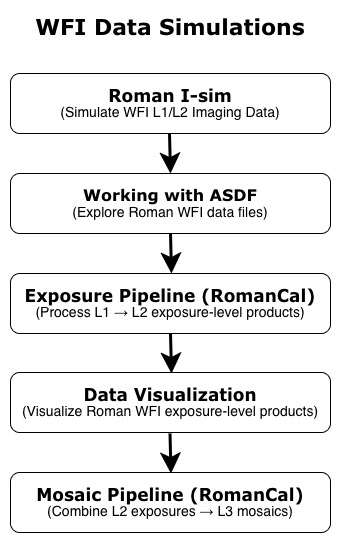
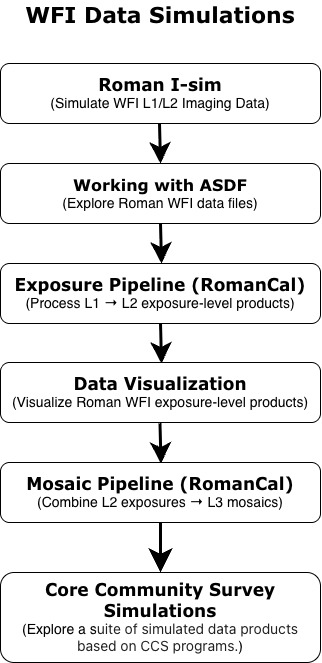
Updated Markdown files
Updated markdown for simulations and crds workflow. 

The simulations workflow now includes the CCS notebook. We also broke the notebooks for the data visualization in two notebooks

The CRDS workflow corrects some typos.

This PR also includes updated diagram for the simulations workflow and a new diagram for the CRDS reference files workflow.

Pull request: Updated markdown for simulations and crds workflow
Updated markdown files for the WFI Data Simulations to:

1.  add the  new CCS notebook.
2. modified the diagram.
3. divide the data visualization section in two notebooks

Updated the CRDS markdown workflow to fix some text and to add a diagram

Changed region(s): [[0.0, 0.0, 1.0, 1.0]]

diff --git a/markdown/workflows/crds-reference-files.md b/markdown/workflows/crds-reference-files.md
@@ -29,11 +29,11 @@ Explore each major reference file type in detail:
 | Reference File | Purpose | Key Concepts Covered | Notebook |
 |----------------|---------|----------------------|----------|
 | **MASK** (Bad Pixel Mask) | DQ flags and bad pixel identification | `dq` array, bitwise flags, flagged pixel statistics | [bad_pixels_mask_reffile.ipynb](../../notebooks/crds_reference_files/bad_pixels_mask_reffile.ipynb) |
-| **DARK** | Dark current correction | Data cubes, `dark_slope`, DQ handling, contrast stretching | [dark_reffile.ipynb](../../notebooks/crds_reference_files/dark_reffile.ipynb) |
-| **SATURATION** | Saturation thresholds | Per-pixel or per-amplifier thresholds, flag handling | [saturation_reffile.ipynb](../../notebooks/crds_reference_files/saturation_reffile.ipynb) |
+| **DARK** | Dark current correction | Pixel-by-pixel and frame-by-frame dark current values per detector readout mode | [dark_reffile.ipynb](../../notebooks/crds_reference_files/dark_reffile.ipynb) |
+| **SATURATION** | Saturation thresholds | Per-pixel thresholds, flag handling | [saturation_reffile.ipynb](../../notebooks/crds_reference_files/saturation_reffile.ipynb) |
 | **REFPIX** | Reference pixel correction | Frequency-dependent coefficients (`alpha`, `gamma`, `zeta`) | [reference_pixel_reffile.ipynb](../../notebooks/crds_reference_files/reference_pixel_reffile.ipynb) |
 | **DISTORTION** | Astrometric distortion model | Astropy `CompoundModel`, grid evaluation, vector fields | [distortion_reffile.ipynb](../../notebooks/crds_reference_files/distortion_reffile.ipynb) |
-| **PHOTOM** | Photometric calibration | Conversion factors (`photmjsr`), zero points | [photom_reffile.ipynb](../../notebooks/crds_reference_files/photom_reffile.ipynb) |
+| **PHOTOM** | Photometric calibration | conversion factors for putting pixel values into physical units | [photom_reffile.ipynb](../../notebooks/crds_reference_files/photom_reffile.ipynb) |
 | **GAIN** | DN to electrons conversion | Per-pixel gain maps, amplifier structure | [gain_reffile.ipynb](../../notebooks/crds_reference_files/gain_reffile.ipynb) |
 | **READNOISE** | Read noise characterization | Per-pixel read noise maps | [readnoise_reffile.ipynb](../../notebooks/crds_reference_files/readnoise_reffile.ipynb) |
 | **AREA** | Pixel solid angle | Pixel area maps in steradians | [area_reffile.ipyn](../../notebooks/crds_reference_files/area_reffile.ipynb) |
@@ -45,18 +45,22 @@ Explore each major reference file type in detail:
 
 1. Start with the general **CRDS Reference Files** notebook.
 3. Go through the individual reference file notebooks in roughly this order:
-   - MASK → DARK → SATURATION → FLAT (foundational)
-   - GAIN → READNOISE → AREA → DISTORTION (detector characterization)
+   - MASK -> DARK -> SATURATION -> FLAT (foundational)
+   - GAIN -> READNOISE -> AREA -> DISTORTION (detector characterization)
    - LINEARITY family (important for flux accuracy)
    - PHOTO (photometric calibration)
    - REFPIX, PSF/ePSF (more specialized)
 4. Return to the general CRDS notebook as needed for context.
 
+
+<img src="https://raw.githubusercontent.com/spacetelescope/roman_notebooks/refs/heads/main/images/crds_workflow.jpg" alt="CRDS Workflow" width="250" />
+
+
 ## How to Use This Workflow
 
 - Work through the notebooks sequentially for a comprehensive understanding.
 - Use individual notebooks independently when you need to inspect a specific reference file.
-- All notebooks follow a consistent structure (CRDS retrieval → `.info()` → statistics → visualization).
+- All notebooks follow a consistent structure
 
 ## Related Workflows
 
@@ -64,8 +68,3 @@ Explore each major reference file type in detail:
 - **WFI Data Analysis** — Uses calibrated data products that depend on these reference files.
 - **Exposure Pipeline** tutorial — Shows where these reference files are actually applied in `romancal`.
 
-## Notes
-
-- These notebooks are educational and focus on **exploration and understanding**.
-- They complement (but do not replace) the official Roman pipeline documentation and RDox pages.
-- All notebooks use the same consistent style and can be extended easily for new reference file types.

diff --git a/markdown/workflows/wfi-data-sim.md b/markdown/workflows/wfi-data-sim.md
@@ -18,13 +18,21 @@ This science workflow guides users through the simulation, processing, manipulat
   
   Process Roman WFI raw (L1) data into exposure-level (L2) products using RomanCal, the Roman science calibration pipeline. This stage corrects instrumental effects and collapses ramp data into rate images suitable for scientific analysis. To learn more about the overall exposure level pipeline visit the [RDox documentation]([https://roman-docs.stsci.edu/data-handbook-home/roman-stsci-data-pipelines/exposure-level-pipeline](https://roman-docs.stsci.edu/data-handbook-home/roman-data-pipelines/exposure-level-pipeline)).
  
-- [**Data Visualization**](../../notebooks/data_visualization/data_visualization.ipynb)
+- **Data Visualization**
 
-  Visualize Roman WFI exposure-level products using Matplotlib and Imviz. This step focuses on quick-look inspection and basic analysis of calibrated L2 images. Imviz is based on the Jupyter platform and includes built-in Astropy functionality. For additional background information, consult [Imviz documentation on ReadTheDocs](https://jdaviz.readthedocs.io/en/latest/imviz/index.html).
+  Visualize Roman WFI exposure-level products using Matplotlib and Jdaviz. This step focuses on quick-look inspection and basic analysis of calibrated L2 images. Imviz is based on the Jupyter platform and includes built-in Astropy functionality. For additional background information, consult [Jdaviz documentation on ReadTheDocs](https://jdaviz.readthedocs.io/en/latest/imviz/index.html).
+
+   - [Using Matplotlib](../../notebooks/data_visualization/data_visualization.ipynb)
+   - [Using JDaviz](../../notebooks/data_visualization/jdaaviz_data_visualization.ipynb)
 
 - [**Mosaic Pipeline**](../../notebooks/mosaic_pipeline/mosaic_pipeline.ipynb)
 
   Combine multiple exposure-level (L2) products into mosaic-level (L3) images using RomanCal. The mosaic pipeline aligns, distortion-corrects, and coadds individual detector exposures to produce deeper, wide-field images. To learn more about the overall mosaic level pipeline visit the [RDox documentation](https://roman-docs.stsci.edu/data-handbook-home/roman-data-pipelines/mosaic-level-pipeline).
+
+- [**Core Community Survey**](../../notebooks/ccs_simulations/ccs_simulations.ipynb)
+
+Explore a suite of simulated data products based on downscaled versions of the Roman Core Community Survey (CCS) programs. These simulated products were created to test the SOC data pipelines and provide sufficient scientific fidelity. These simulations do not necessarily include everything that may be observed on-orbit. Specifically, the simulations *do not include time-variable sources.* More details on what is included in the simulations are provided in the descriptions of each simulation set.
+ 
 
 <img src="https://raw.githubusercontent.com/spacetelescope/roman_notebooks/refs/heads/main/images/wfi-data-sim.jpg" alt="WFI Data Analysis Workflow" width="250" />
 